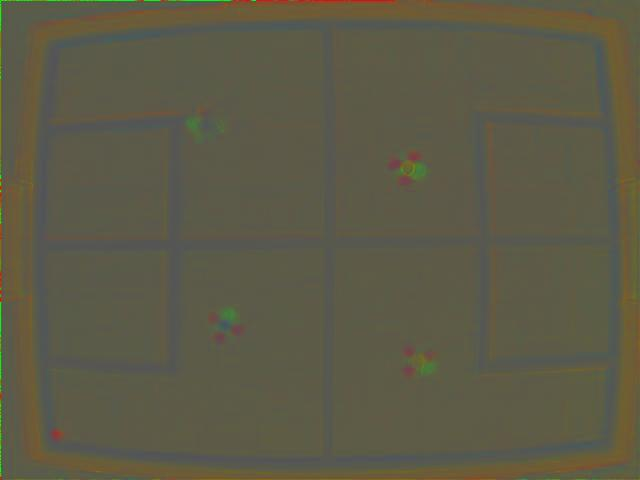
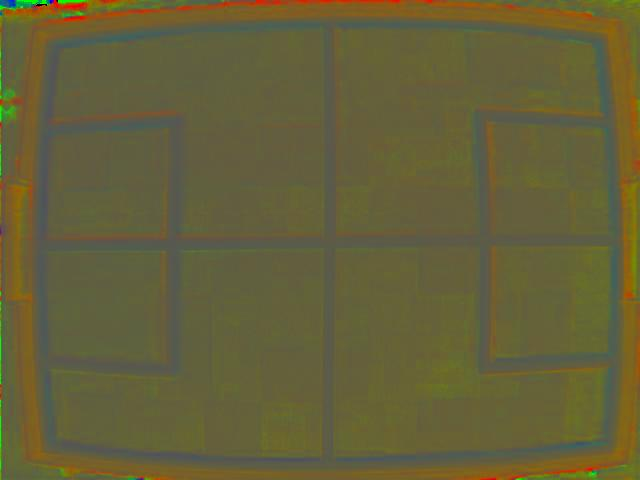
Add Smoothing of BinaryImage
Added more functionality to the interface and multiple smoothing
functions

diff --git a/Leonard/vision/VisionGUI.java b/Leonard/vision/VisionGUI.java
@@ -4,11 +4,17 @@ import org.opencv.core.Core;
 import vision.calibration.CalibrateEmptyPitchButton;
 import vision.capture.VideoCapture;
 import vision.object_recognition.BinaryImage;
+import vision.object_recognition.ErodedAndDilatedImage;
 
 import javax.swing.*;
+import javax.swing.border.TitledBorder;
 import java.awt.*;
 import java.awt.event.WindowAdapter;
 import java.awt.event.WindowEvent;
+import java.io.File;
+import java.io.FileReader;
+import java.io.IOException;
+import java.io.Reader;
 
 import static vision.capture.VideoCapture.height;
 import static vision.capture.VideoCapture.width;
@@ -23,30 +29,61 @@ public class VisionGUI extends WindowAdapter {
     private JPanel pane;
     private VideoCapture vcLabel;
     private BinaryImage biLabel;
+    private ErodedAndDilatedImage eadLabel;
+    private JPanel optionsPane;
+    private JSlider thresholdSlider;
+    private JSlider rthresholdSlider;
+    private JSlider gthresholdSlider;
+    private JSlider bthresholdSlider;
+    private JSlider gaussianBlurSlider;
+    private JSlider erosionSlider;
+    private JSlider dilationSlider;
 
     private VisionGUI() {
         initGUI();
+    }
+
+    /**
+     * UI class to add named sliders
+     */
+    private class TitledSlider extends JPanel {
+        TitledSlider(String sliderTitle, JSlider slider) {
+            super();
+            JLabel title = new JLabel();
+            title.setText(sliderTitle);
+            this.add(title);
+            this.add(slider);
+        }
     }
 
 
     private void initGUI() {
         frame = new JFrame();
         pane = new JPanel(new GridLayout(2,2));
+
+        setupOptionsPane();
+
         vcLabel = new VideoCapture();
         vcLabel.setSize(new Dimension(width, height));
-        biLabel = new BinaryImage();
-        biLabel.setSize(new Dimension(width / 2, height / 2));
-        vcLabel.addFrameReceivedListener(biLabel);
 
-        CalibrateEmptyPitchButton createNormalizedRGBButton = new CalibrateEmptyPitchButton(vcLabel);
+        biLabel = new BinaryImage(rthresholdSlider, gthresholdSlider, bthresholdSlider);
+        biLabel.setSize(new Dimension(width / 2, height / 2));
+
+        eadLabel = new ErodedAndDilatedImage();
+        eadLabel.setSize(new Dimension(width / 2, height / 2));
+
+        vcLabel.addFrameReceivedListener(biLabel);
+        biLabel.addFrameReceivedListener(eadLabel);
 
         frame.setTitle("MainVideoFeed");
         Container c = frame.getContentPane();
         c.add(pane);
 
+        // Construct main scene
         pane.add(vcLabel);
         pane.add(biLabel);
-        pane.add(createNormalizedRGBButton);
+        pane.add(optionsPane);
+        pane.add(eadLabel);
 
         frame.setDefaultCloseOperation(JFrame.DISPOSE_ON_CLOSE);
         frame.addWindowListener(this);
@@ -55,9 +92,69 @@ public class VisionGUI extends WindowAdapter {
 //        frame.setExtendedState( frame.getExtendedState()|JFrame.MAXIMIZED_BOTH );
     }
 
+    private void setupOptionsPane() {
+        optionsPane = new JPanel();
+        optionsPane.setLayout(new BoxLayout(optionsPane, BoxLayout.Y_AXIS));
+
+        thresholdSlider = new JSlider(0, 100, 0);
+        thresholdSlider.addChangeListener(new BinaryImage.ThresholdChangeListener());
+
+        rthresholdSlider = new JSlider(0, 100, 0);
+        rthresholdSlider.addChangeListener(new BinaryImage.RThresholdChangeListener());
+
+        gthresholdSlider = new JSlider(0, 100, 0);
+        gthresholdSlider.addChangeListener(new BinaryImage.GThresholdChangeListener());
+
+        bthresholdSlider = new JSlider(0, 100, 0);
+        bthresholdSlider.addChangeListener(new BinaryImage.BThresholdChangeListener());
+
+        gaussianBlurSlider = new JSlider(1, 11, 3);
+        gaussianBlurSlider.setMajorTickSpacing(2);
+        gaussianBlurSlider.setSnapToTicks(true);
+        gaussianBlurSlider.setPaintTicks(true);
+        gaussianBlurSlider.addChangeListener(new BinaryImage.GaussianBlurChangeListener());
+
+        erosionSlider = new JSlider(1, 10, 3);
+        erosionSlider.setSnapToTicks(true);
+        erosionSlider.setPaintTicks(true);
+        erosionSlider.addChangeListener(new ErodedAndDilatedImage.ErosionChangeListener());
+
+
+        dilationSlider = new JSlider(1, 10, 3);
+        dilationSlider.setSnapToTicks(true);
+        dilationSlider.setPaintTicks(true);
+        dilationSlider.addChangeListener(new ErodedAndDilatedImage.DialationChangeListener());
+
+        CalibrateEmptyPitchButton createNormalizedRGBButton = new CalibrateEmptyPitchButton(vcLabel);
+
+        // Add buttons and sliders
+        optionsPane.add(createNormalizedRGBButton);
+        optionsPane.add(new TitledSlider("Threshold: ", thresholdSlider));
+        optionsPane.add(new TitledSlider("Threshold R:", rthresholdSlider));
+        optionsPane.add(new TitledSlider("Threshold G:", gthresholdSlider));
+        optionsPane.add(new TitledSlider("Threshold B:", bthresholdSlider));
+        optionsPane.add(new TitledSlider("GaussianBlur: ", gaussianBlurSlider));
+        optionsPane.add(new TitledSlider("Erosion: ", erosionSlider));
+        optionsPane.add(new TitledSlider("Dilation: ", dilationSlider));
+
+//        loadValues();
+    }
+
+//    private void loadValues() {
+//        File saveFile = new File("Leonard/vision/calibration/pre_saved_values/saveFile");
+//        try {
+//            if (saveFile.exists()) {
+//                Reader reader = new FileReader(saveFile);
+//                reader.read();
+//            }
+//        } catch (IOException io) {
+//            System.out.println("No Save File found!");
+//        }
+//    }
 
 
     public void windowClosing(WindowEvent e) {
+
         vcLabel.cleanupCapture();
         frame.dispose();
         System.out.println("exiting!!!");

diff --git a/Leonard/vision/object_recognition/BinaryImage.java b/Leonard/vision/object_recognition/BinaryImage.java
@@ -3,17 +3,22 @@ package vision.object_recognition;
 import org.opencv.core.Core;
 import org.opencv.core.Mat;
 import org.opencv.core.Scalar;
+import org.opencv.core.Size;
+import org.opencv.imgproc.Imgproc;
 import vision.capture.FrameReceivedListener;
 
 import javax.imageio.ImageIO;
 import javax.swing.*;
+import javax.swing.event.ChangeEvent;
+import javax.swing.event.ChangeListener;
 import java.awt.image.BufferedImage;
 import java.io.File;
 import java.io.IOException;
+import java.util.ArrayList;
+import java.util.List;
 
 import static vision.utils.Converter.imageToMat;
 import static vision.utils.Converter.matToBinaryImage;
-import static vision.utils.Converter.matToImage;
 import static vision.utils.Normalizer.normalizeRGB;
 import static vision.utils.Subtractor.subtract;
 
@@ -23,20 +28,36 @@ import static vision.utils.Subtractor.subtract;
  */
 public class BinaryImage extends JLabel implements FrameReceivedListener {
 
-    public BinaryImage() {
+    private static int THRESHOLD_R = 0, THRESHOLD_G = 0, THRESHOLD_B = 0;
+    private static JSlider r, g, b;
+
+    private static int GAUSSIAN_BLUR_SIZE = 3;
+
+    private List<FrameReceivedListener> frameReceivedListeners = new ArrayList<>();
+
+    public BinaryImage(JSlider r, JSlider g, JSlider b) {
         super();
+        BinaryImage.r = r;
+        BinaryImage.g = g;
+        BinaryImage.b = b;
+    }
+
+    public void addFrameReceivedListener(FrameReceivedListener l) {
+        frameReceivedListeners.add(l);
     }
 
     @Override
     public void onFrameReceived(BufferedImage image) {
         BufferedImage norm = normalizeRGB(image);
-        BufferedImage background = null;
+        BufferedImage background;
 
         try {
              background =
                     ImageIO.read(new File("Leonard/vision/calibration/pre_saved_values/empty_pitch_norm.jpg"));
         } catch (IOException e) {
-            e.printStackTrace();
+//            e.printStackTrace();
+            // Ignore so as to not crash application if file is updated
+            return;
         }
 
         Mat bg = imageToMat(background);
@@ -45,26 +66,24 @@ public class BinaryImage extends JLabel implements FrameReceivedListener {
         Mat thresholdedImage = new Mat();
 
         Core.inRange(beforeThreshold,
-                new Scalar(4, 4, 4),
+                new Scalar(THRESHOLD_R, THRESHOLD_G, THRESHOLD_B),
                 new Scalar(255,255,255),
                 thresholdedImage);
 
-//      DEBUG
 
-//        this.getGraphics().drawImage(norm,
-//                5, 0,
-//                thresholdedImage.width() / 2,
-//                thresholdedImage.height() / 2,
-//                null);
-//
-//        for (int x = 0; x < thresholdedImage.width(); x++) {
-//            for (int y = 0; y < thresholdedImage.height(); y++) {
-//                double[] out = beforeThreshold.get(x,y);
-//                System.out.println(out[0]);
-//            }
-//        }
+        // Apply gaussian blur
+        Mat blurredMat = new Mat();
+        Imgproc.GaussianBlur(thresholdedImage, blurredMat, new Size(GAUSSIAN_BLUR_SIZE, GAUSSIAN_BLUR_SIZE), 0);
 
-        BufferedImage binaryImage = matToBinaryImage(thresholdedImage);
+
+        BufferedImage binaryImage = matToBinaryImage(blurredMat);
+
+
+        // Broadcast image to other transformation functions
+        for (FrameReceivedListener l : frameReceivedListeners) {
+            new Thread(() -> l.onFrameReceived(binaryImage)).run();
+        }
+
 
         this.getGraphics().drawImage(binaryImage,
                 0, 0,
@@ -72,4 +91,56 @@ public class BinaryImage extends JLabel implements FrameReceivedListener {
                 thresholdedImage.height(),
                 null);
     }
+
+
+    public static class ThresholdChangeListener implements ChangeListener {
+        @Override
+        public void stateChanged(ChangeEvent e) {
+            JSlider slider = (JSlider) e.getSource();
+            int value = slider.getValue();
+            THRESHOLD_R = value;
+            r.setValue(value);
+            THRESHOLD_G = value;
+            g.setValue(value);
+            THRESHOLD_B = value;
+            b.setValue(value);
+        }
+    }
+
+
+    public static class RThresholdChangeListener implements ChangeListener {
+        @Override
+        public void stateChanged(ChangeEvent e) {
+            JSlider slider = (JSlider) e.getSource();
+            THRESHOLD_R = slider.getValue();
+        }
+    }
+
+    public static class GThresholdChangeListener implements ChangeListener {
+        @Override
+        public void stateChanged(ChangeEvent e) {
+            JSlider slider = (JSlider) e.getSource();
+            THRESHOLD_G = slider.getValue();
+        }
+    }
+
+    public static class BThresholdChangeListener implements ChangeListener {
+        @Override
+        public void stateChanged(ChangeEvent e) {
+            JSlider slider = (JSlider) e.getSource();
+            THRESHOLD_B = slider.getValue();
+        }
+    }
+
+    public static class GaussianBlurChangeListener implements ChangeListener {
+
+        @Override
+        public void stateChanged(ChangeEvent e) {
+            JSlider slider = (JSlider) e.getSource();
+            int value = slider.getValue();
+            if (value % 2 == 1)
+                GAUSSIAN_BLUR_SIZE = slider.getValue();
+        }
+    }
+
 }

diff --git a/Leonard/vision/object_recognition/ErodedAndDilatedImage.java b/Leonard/vision/object_recognition/ErodedAndDilatedImage.java
@@ -1,0 +1,69 @@
+package vision.object_recognition;
+
+import org.opencv.core.Mat;
+import org.opencv.core.Size;
+import org.opencv.imgproc.Imgproc;
+import vision.capture.FrameReceivedListener;
+
+import javax.swing.*;
+import javax.swing.event.ChangeEvent;
+import javax.swing.event.ChangeListener;
+import java.awt.image.BufferedImage;
+
+import static vision.utils.Converter.imageToMat;
+import static vision.utils.Converter.matToBinaryImage;
+
+/**
+ * Created by Ivan Georgiev (s1410984) on 30/01/17.
+ * Class to Erode And Dilate binary image
+ */
+public class ErodedAndDilatedImage extends JLabel implements FrameReceivedListener {
+
+    private static double EROSION_SIZE = 1;
+    private static double DILATION_SIZE = 1;
+
+    public ErodedAndDilatedImage() {
+        super();
+    }
+
+    @Override
+    public void onFrameReceived(BufferedImage image) {
+        Mat binaryImage = imageToMat(image);
+
+
+        Mat erodedImage = new Mat();
+        Mat erosionElement = Imgproc.getStructuringElement(Imgproc.MORPH_ERODE,
+                new Size(EROSION_SIZE, EROSION_SIZE));
+        Imgproc.erode(binaryImage, erodedImage, erosionElement);
+
+
+        Mat dilatedImage = new Mat();
+        Mat dilationElement = Imgproc.getStructuringElement(Imgproc.MORPH_RECT,
+                new Size(DILATION_SIZE, DILATION_SIZE));
+        Imgproc.dilate(erodedImage, dilatedImage, dilationElement);
+        BufferedImage erodedAndDilated = matToBinaryImage(dilatedImage);
+
+        if (erodedAndDilated != null) {
+            // Draw
+            this.getGraphics()
+                    .drawImage(erodedAndDilated, 0, 0,
+                            erodedAndDilated.getWidth(), erodedAndDilated.getHeight(), null);
+        }
+    }
+
+    public static class ErosionChangeListener implements ChangeListener {
+        @Override
+        public void stateChanged(ChangeEvent e) {
+            JSlider slider = (JSlider) e.getSource();
+            EROSION_SIZE = slider.getValue();
+        }
+    }
+
+    public static class DialationChangeListener implements ChangeListener {
+        @Override
+        public void stateChanged(ChangeEvent e) {
+            JSlider slider = (JSlider) e.getSource();
+            DILATION_SIZE = slider.getValue();
+        }
+    }
+}

diff --git a/Leonard/vision/capture/VideoCapture.java b/Leonard/vision/capture/VideoCapture.java
@@ -97,6 +97,7 @@ public class VideoCapture extends JLabel implements CaptureCallback {
     public void nextFrame(VideoFrame frame) {
         // This method is called when a new frame is ready.
         // Don't forget to recycle it when done dealing with the frame.
+
         currentImage = frame.getBufferedImage();
 
         // Send to all frame listeners
@@ -110,5 +111,4 @@ public class VideoCapture extends JLabel implements CaptureCallback {
         // recycle the frame
         frame.recycle();
     }
-
 }
